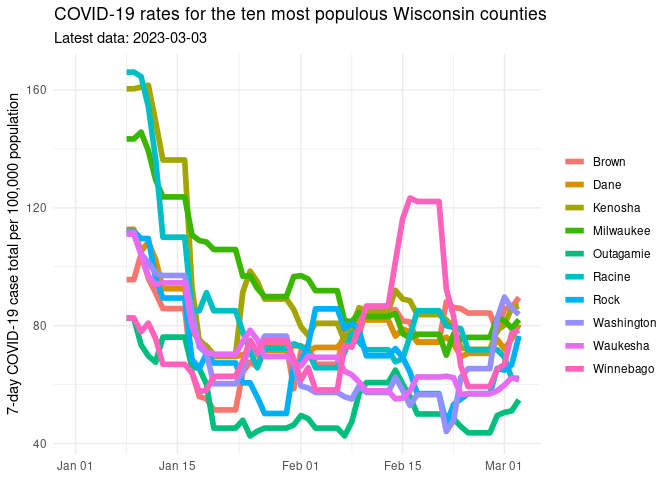
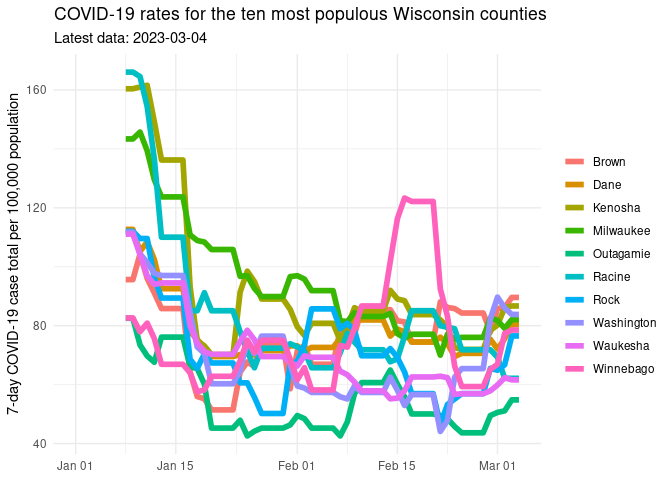
Updated report

diff --git a/README.md b/README.md
@@ -1,7 +1,7 @@
 Wisconsin COVID Report
 ================
 
-Report last run: 2023-03-04 22:09:04
+Report last run: 2023-03-05 22:11:49
 
 ## Introduction
 
